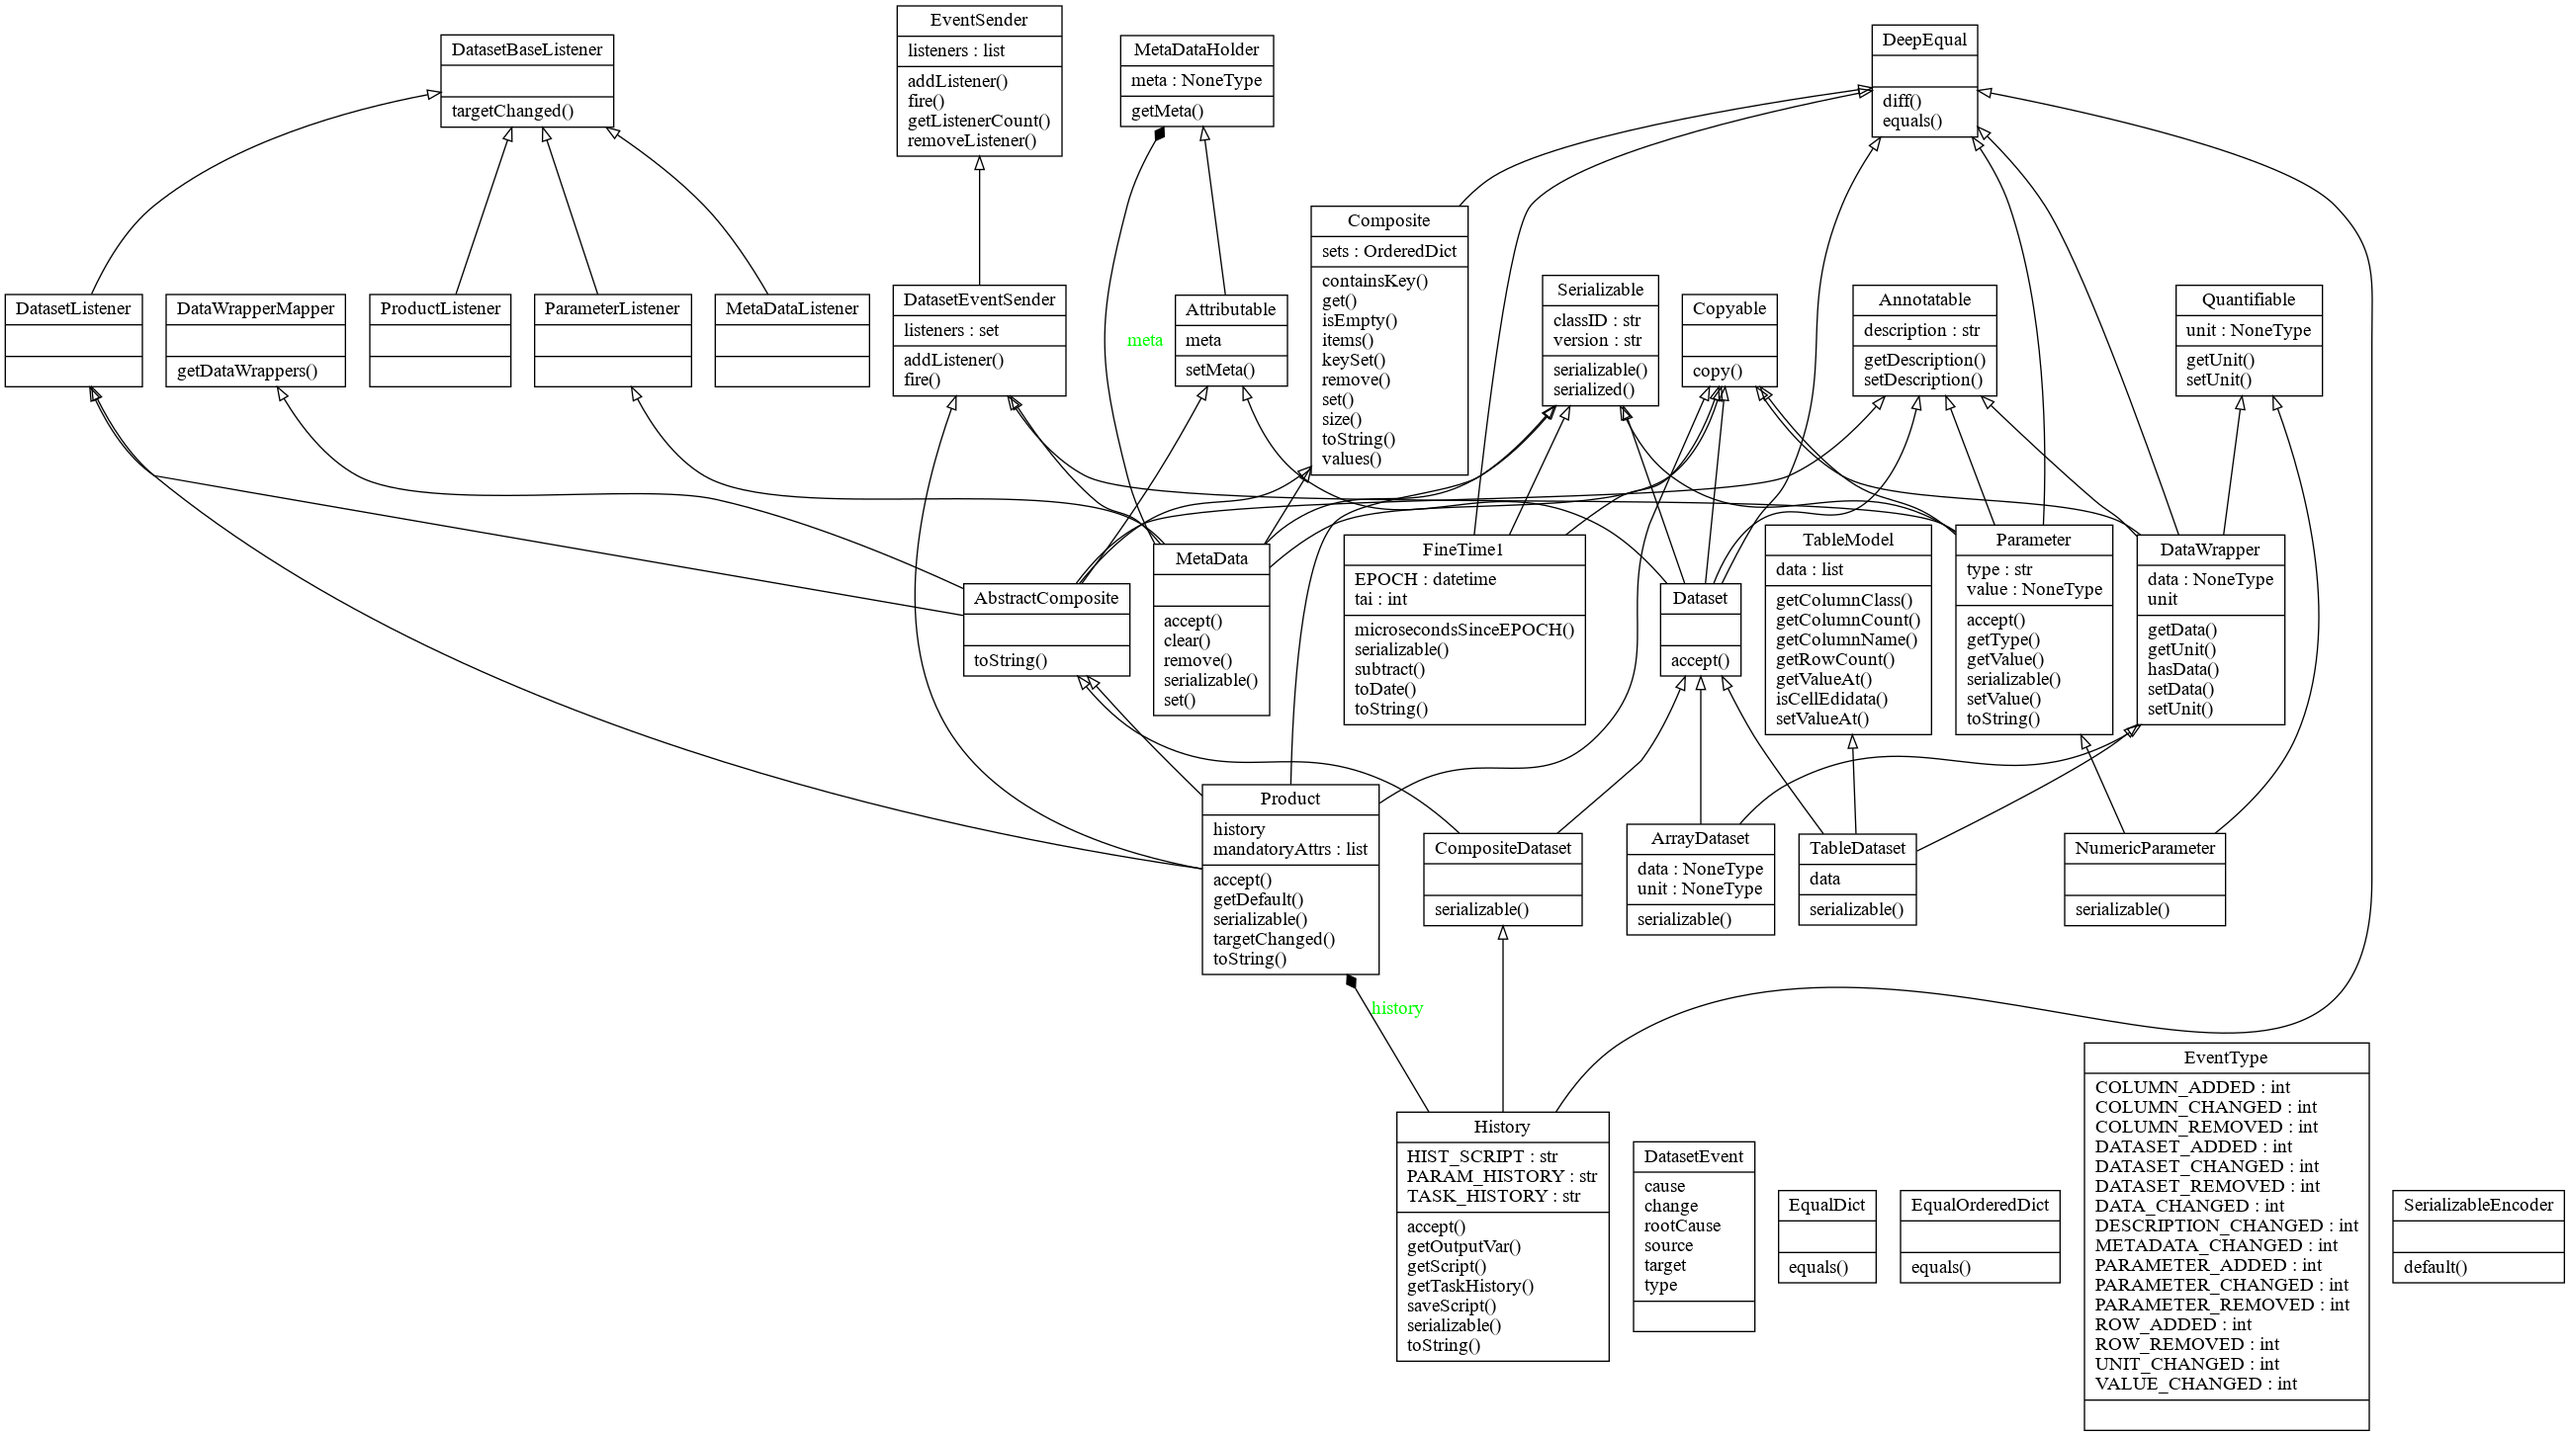
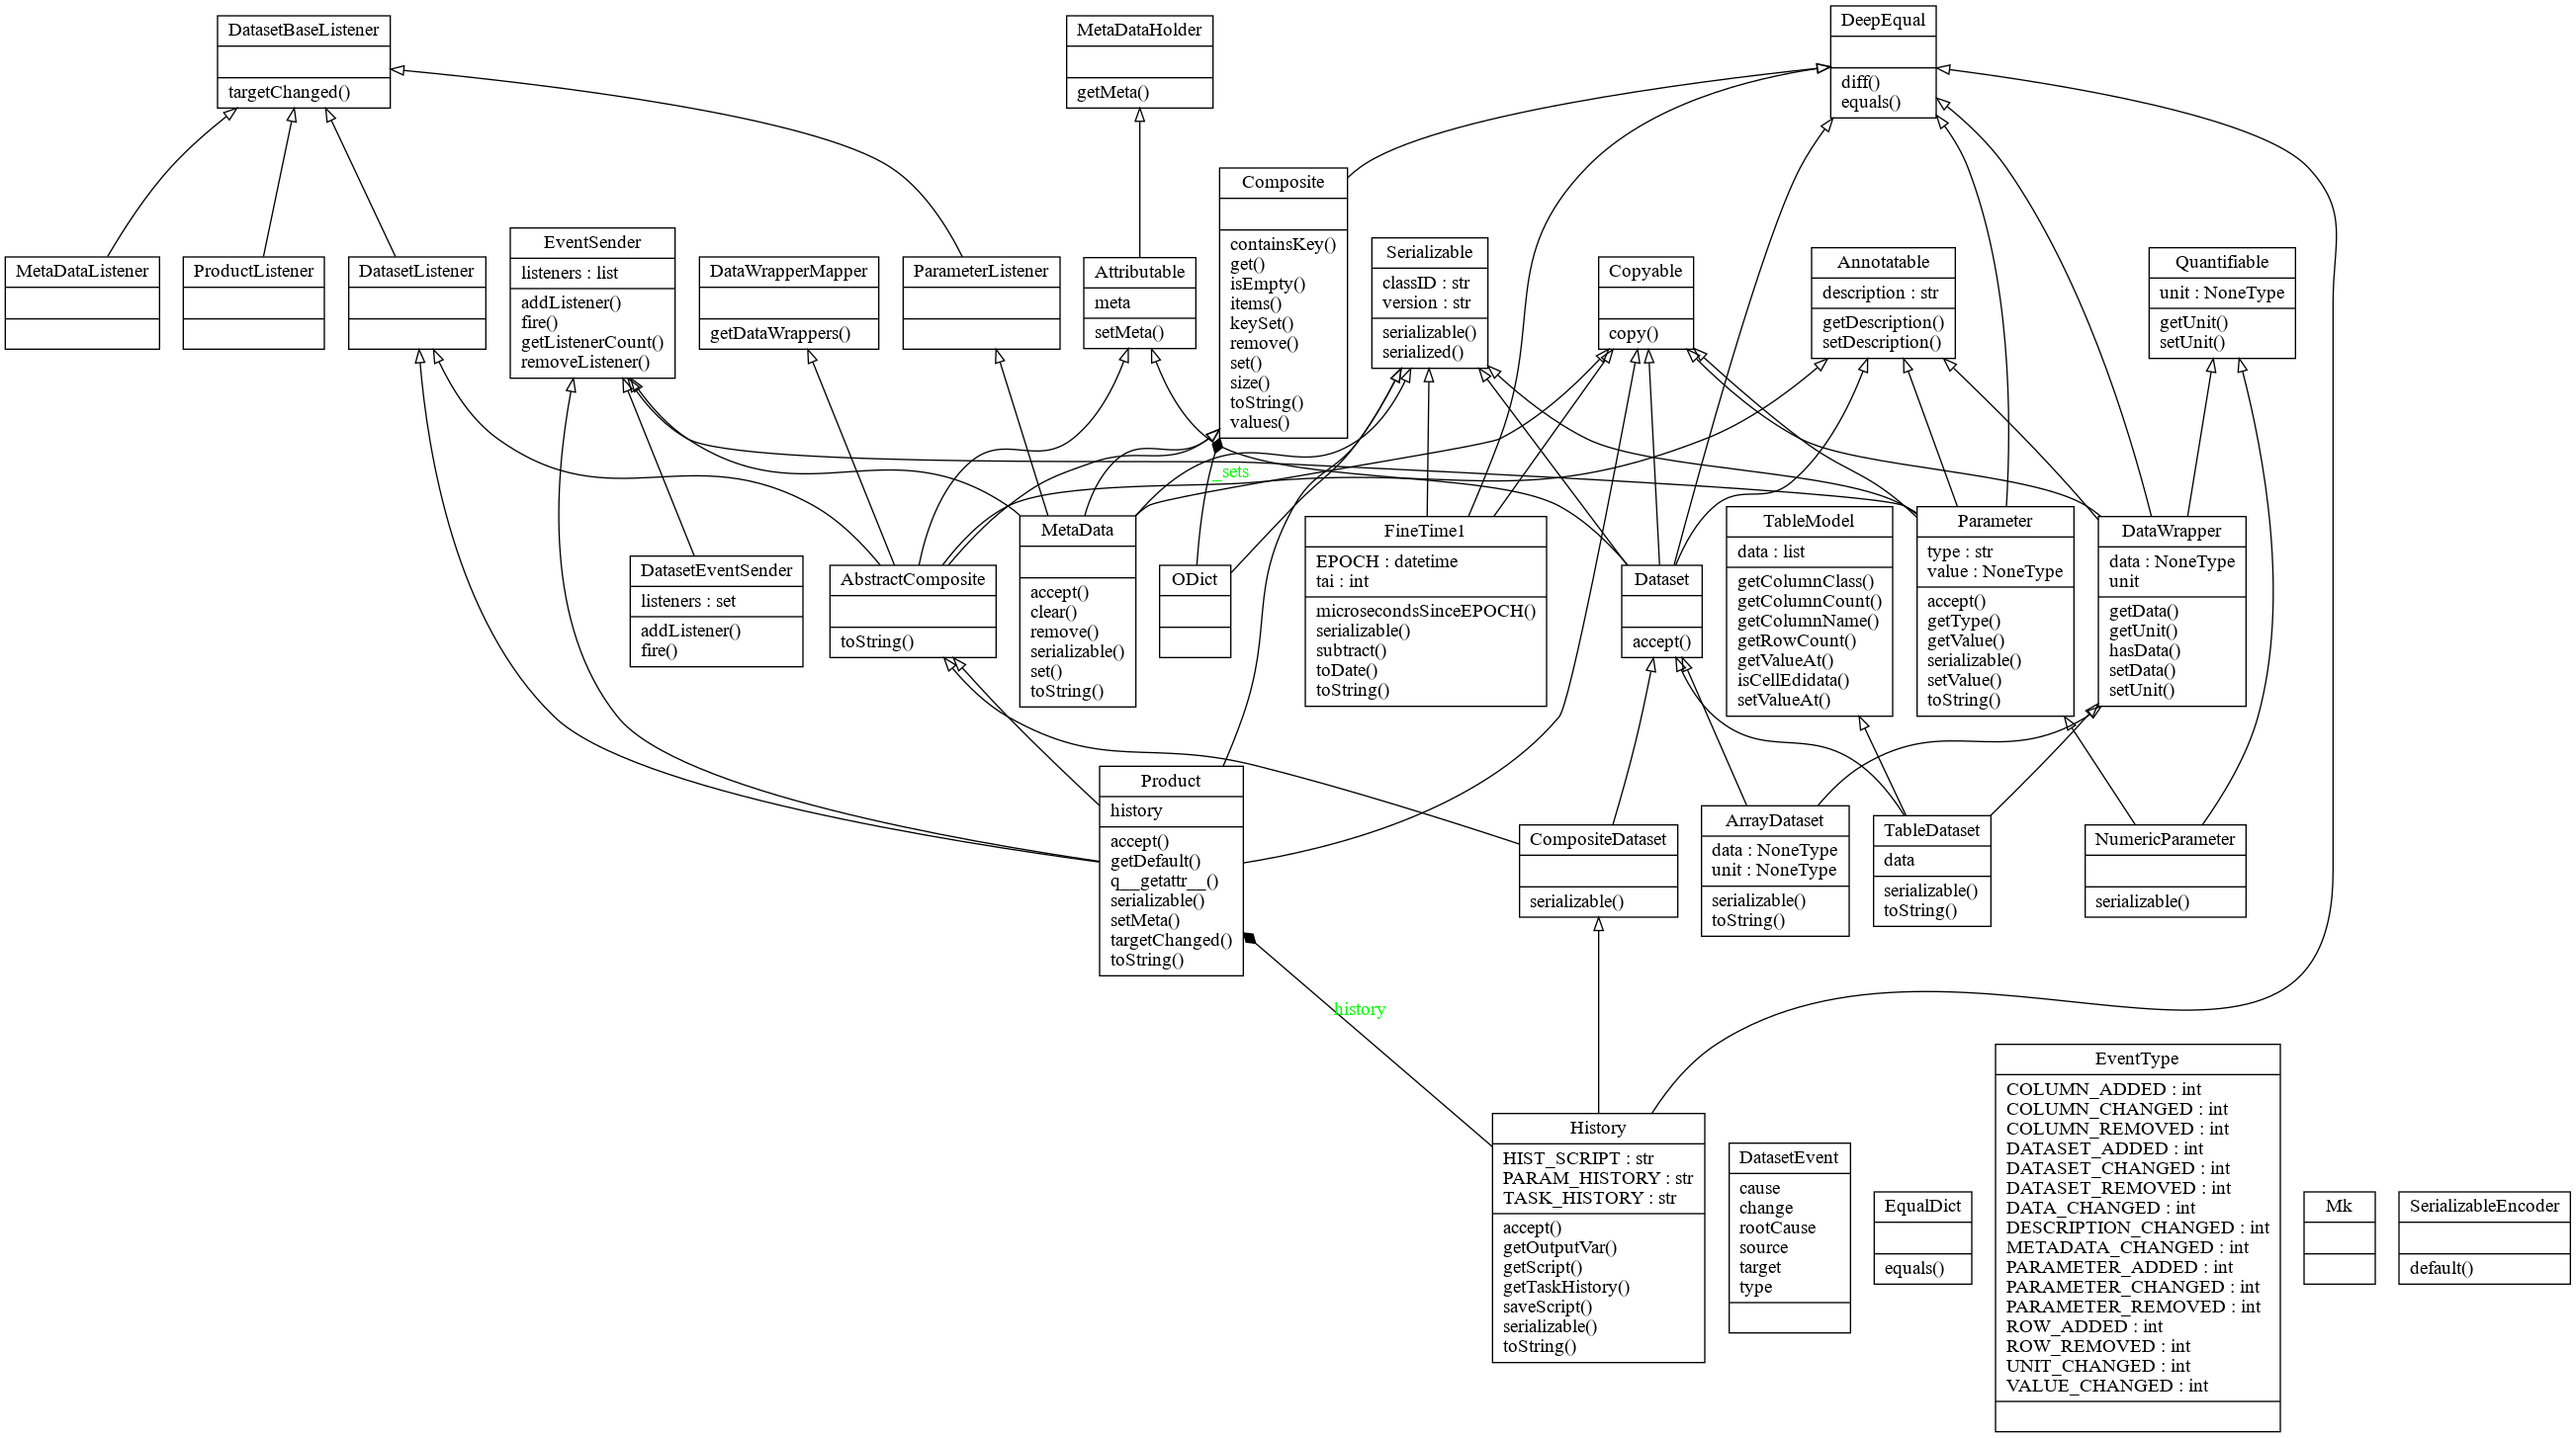
remove set/get unit from DataWrapper

diff --git a/dataset/metadata.py b/dataset/metadata.py
@@ -222,12 +222,6 @@ class MetaDataHolder(object):
         return self._meta
 
 
-class Mk():
-
-    def __init__(self, **kwds):
-        print('mk')
-
-
 class Attributable(MetaDataHolder):
     """ An Attributable object is an object that has the
     notion of meta data. """
@@ -270,10 +264,6 @@ class DataWrapper(Annotatable, Quantifiable, Copyable, DeepEqual):
         """ Returns the data in this """
         return self.data
 
-    def getUnit(self):
-        """ Returns the unit related to this object. """
-        return self.unit
-
     def hasData(self):
         """ Returns whether this data wrapper has data. """
         return self.data is not None
@@ -281,10 +271,6 @@ class DataWrapper(Annotatable, Quantifiable, Copyable, DeepEqual):
     def setData(self, data):
         """ Populates this DataWrapper with actual data. """
         self.data = data
-
-    def setUnit(self, unit):
-        """ Sets the unit of this object.. """
-        self.unit = unit
 
     def __repr__(self):
         return self.__class__.__name__ + \

diff --git a/tests/test_all.py b/tests/test_all.py
@@ -30,7 +30,7 @@ def checkjson(obj):
     """
 
     #dbg = True if issubclass(obj.__class__, Product) else False
-    dbg = True
+    dbg = False
 
     if hasattr(obj, 'serialized'):
         js = obj.serialized()
@@ -630,19 +630,23 @@ def test_CompositeDataset():
     assert v == v1
     assert v1 == v
 
-    # change data
+    # change data. diff dataset access syntax []
     v1[b9].data[1] += 0
     assert v == v1
     v1[b9].data[1] += 0.1
     assert v != v1
     assert v1 != v
-    b4 = a4.copy()
-    v1.set(b9, b4)
-    assert v == v1
     # change meta
+    b4 = a4.copy()
+    v1[b9] = b4
+    assert v == v1
     v1.meta[b11].description = 'c'
     assert v != v1
     assert v1 != v
+
+    # nested datasets
+    v['v1'] = v1
+    assert v['v1'][a9] == a4
 
     checkjson(v)
     checkgeneral(v)

diff --git a/dataset/composite.py b/dataset/composite.py
@@ -45,7 +45,7 @@ class Composite(DeepEqual):
         and the specified key or value is null."""
 
         if name == '' or name is None or dataset is None:
-            logger.error('Noooo')
+            logger.error('Bad dataset name.')
             return
         self._sets[name] = dataset
 
